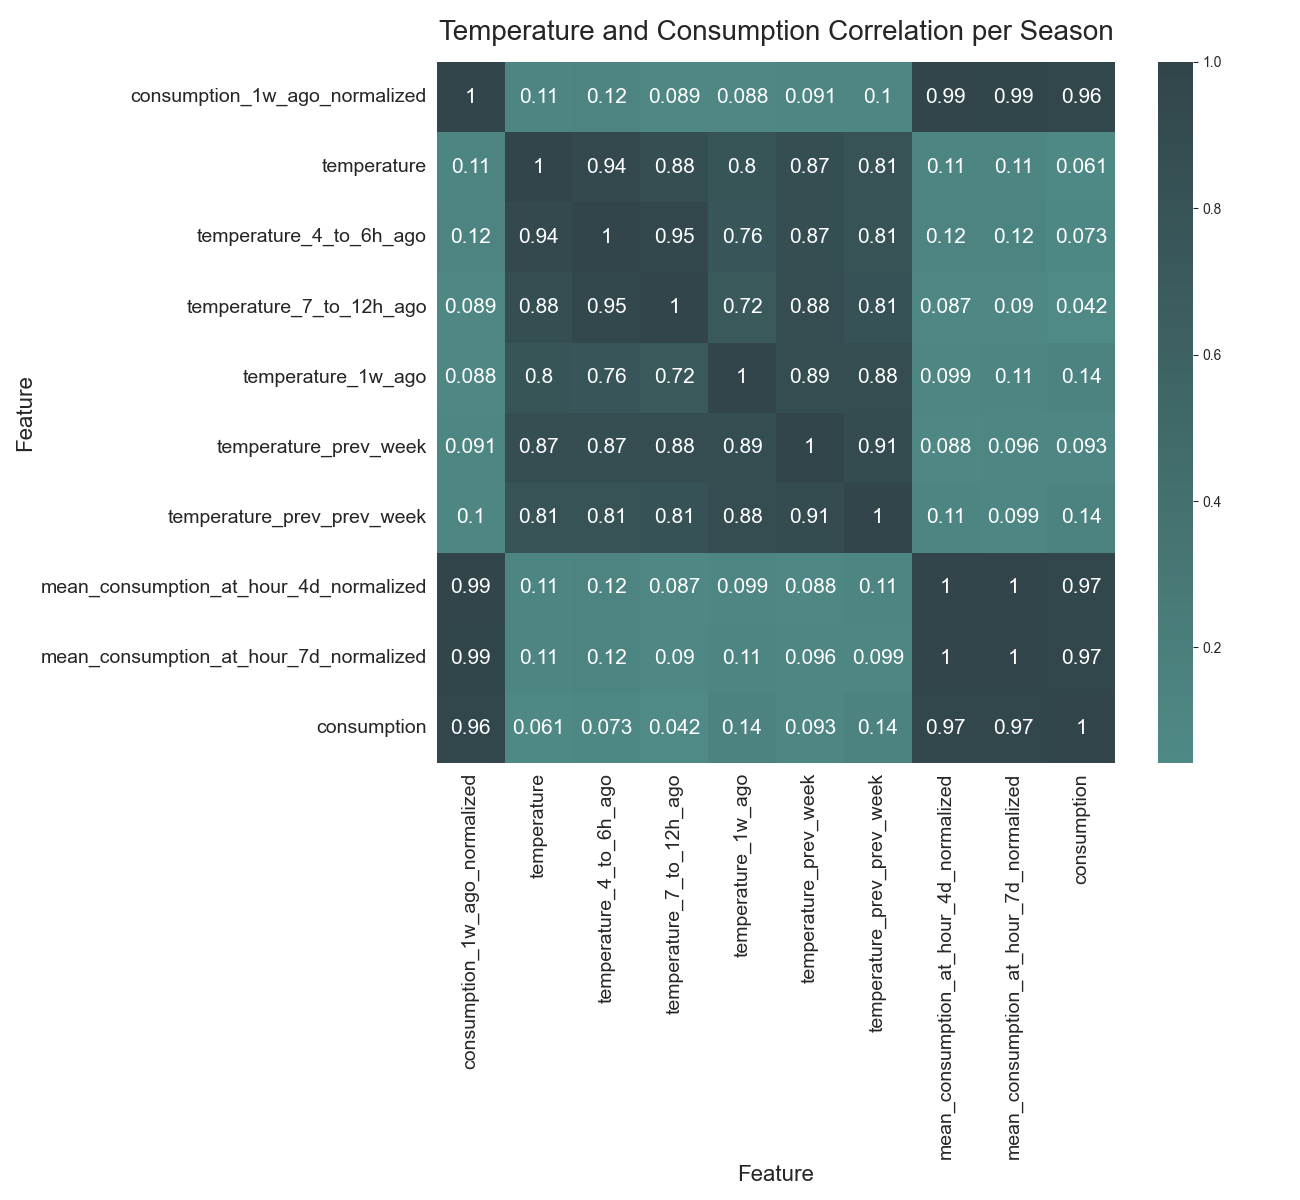
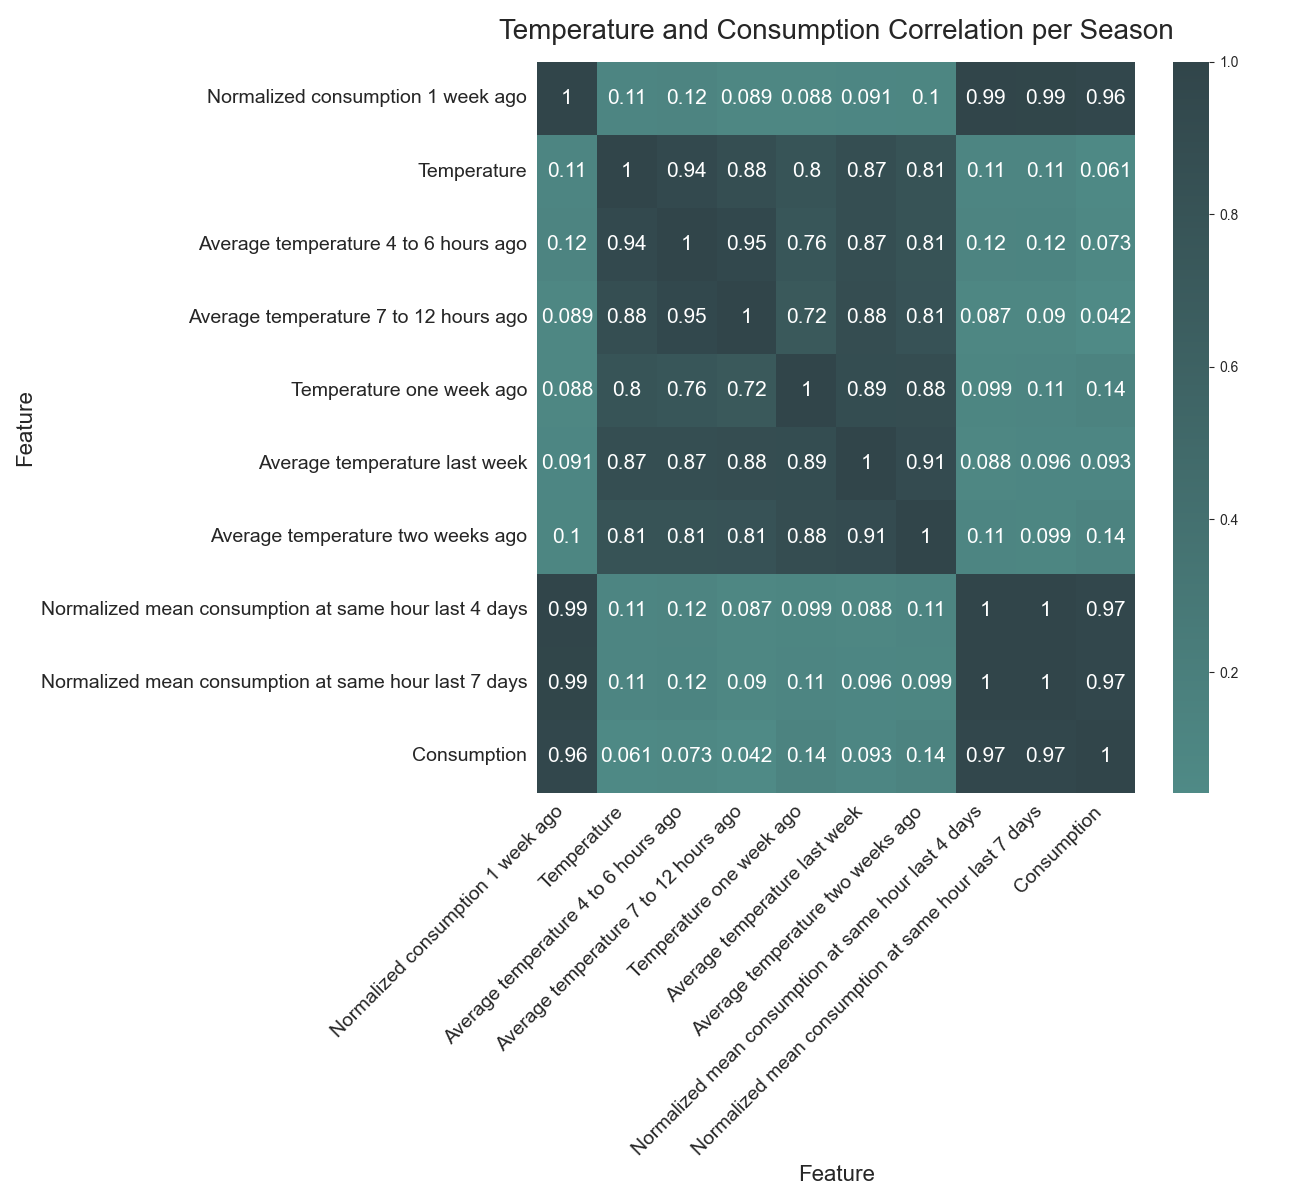
Generate new results

diff --git a/analysis.py b/analysis.py
@@ -591,6 +591,7 @@ plt.yticks(size=16, fontname="Arial")
 # make the legend a square
 # Save figure
 plt.tight_layout()
+plt.savefig("analysis/results_mape_mpe_per_city.png")
 plt.show()
 
 # %% Making one for only mape for the presentation
@@ -642,6 +643,7 @@ plt.yticks(size=14, fontname="Arial")
 # make the legend a square
 # Save figure
 plt.tight_layout()
+plt.savefig("analysis/results_mape_per_city.png")
 plt.show()
 
 
@@ -669,60 +671,64 @@ for week in weeks:
             ("Baseline", "baseline", "_baseline", colors[2]),
         ]:
             # Create a new figure and plot the data
-            # (12, 6) for report
-            # (8, 6) for presentation
-            plt.figure(figsize=(12, 6))
-            # Apply color palette
-            plt.gca().set_prop_cycle(color=colors)
-            sns.lineplot(
-                x=subset.index.get_level_values("Time"),
-                y=subset["actual"],
-                label="Actual",
-                linewidth=2,
-            )
-            sns.lineplot(
-                x=subset.index.get_level_values("Time"),
-                y=subset[key],
-                label=label,
-                linewidth=2,
-                color=color,
-            )
+            for figsize, typ in [
+                ((12, 6), ""),
+                ((8, 6), "_presentation"),
+            ]:
+                plt.figure(figsize=figsize)
+                # Apply color palette
+                plt.gca().set_prop_cycle(color=colors)
+                sns.lineplot(
+                    x=subset.index.get_level_values("Time"),
+                    y=subset["actual"],
+                    label="Actual",
+                    linewidth=2,
+                )
+                sns.lineplot(
+                    x=subset.index.get_level_values("Time"),
+                    y=subset[key],
+                    label=label,
+                    linewidth=2,
+                    color=color,
+                )
 
-            # Set format for the x-axis
-            plt.gca().xaxis.set_major_formatter(
-                matplotlib.dates.DateFormatter("%a %H:%M")
-            )
+                # Set format for the x-axis
+                plt.gca().xaxis.set_major_formatter(
+                    matplotlib.dates.DateFormatter("%a %H:%M")
+                )
 
-            # Customize the plot
-            plt.title(
-                f"Week {week} - Actual vs. {label} Consumption in {location[0].upper()+location[1:]}",
-                size=18,
-                fontname="Arial",
-                y=1.02,
-            )
-            plt.xlabel("Hour of Day", size=16, fontname="Arial")
-            plt.ylabel("Consumption (avg. MW in hour)", size=16, fontname="Arial")
-            plt.legend(fontsize=12, loc="upper left")
+                # Customize the plot
+                plt.title(
+                    f"Week {week} - Actual vs. {label} Consumption in {location[0].upper()+location[1:]}",
+                    size=18,
+                    fontname="Arial",
+                    y=1.02,
+                )
+                plt.xlabel("Hour of Day", size=16, fontname="Arial")
+                plt.ylabel("Consumption (avg. MW in hour)", size=16, fontname="Arial")
+                plt.legend(fontsize=12, loc="upper left")
 
-            # Use whitegrid style
-            sns.set_style("whitegrid")
+                # Use whitegrid style
+                sns.set_style("whitegrid")
 
-            # Start y-axis at 0
-            plt.ylim(bottom=0)
+                # Start y-axis at 0
+                plt.ylim(bottom=0)
 
-            # Set top of y-axis to 1.5 times the maximum value
-            plt.ylim(top=1.5 * max(subset["actual"].max(), subset["prediction"].max()))
+                # Set top of y-axis to 1.5 times the maximum value
+                plt.ylim(
+                    top=1.5 * max(subset["actual"].max(), subset["prediction"].max())
+                )
 
-            # Display the plot or save it as an image
-            plt.grid(True)
-            plt.xticks(rotation=45, size=16, fontname="Arial")
-            # set ticks to size 16 and Arial font
-            plt.yticks(size=16, fontname="Arial")
-            plt.tight_layout()
-            plt.savefig(
-                f"analysis/Test data predictions/week_{week}_{location}{fname_suffix}.png"
-            )
-            plt.show()
+                # Display the plot or save it as an image
+                plt.grid(True)
+                plt.xticks(rotation=45, size=16, fontname="Arial")
+                # set ticks to size 16 and Arial font
+                plt.yticks(size=16, fontname="Arial")
+                plt.tight_layout()
+                plt.savefig(
+                    f"analysis/Test data predictions/week_{week}_{location}{fname_suffix}{typ}.png"
+                )
+                plt.show()
 
 # %%
 # Create one line graph for entire period in each location
@@ -828,6 +834,11 @@ plt.ylabel("Feature", fontname="Arial", fontsize=16)
 # set ticks to size 16 and Arial font
 plt.xticks(size=14, fontname="Arial")
 plt.yticks(size=14, fontname="Arial")
+# Wrap words in x-axis labels
+plt.xticks(
+    rotation=45,
+    ha="right",
+)
 plt.tight_layout()
 plt.savefig("analysis/correlation.png")
 plt.show()
